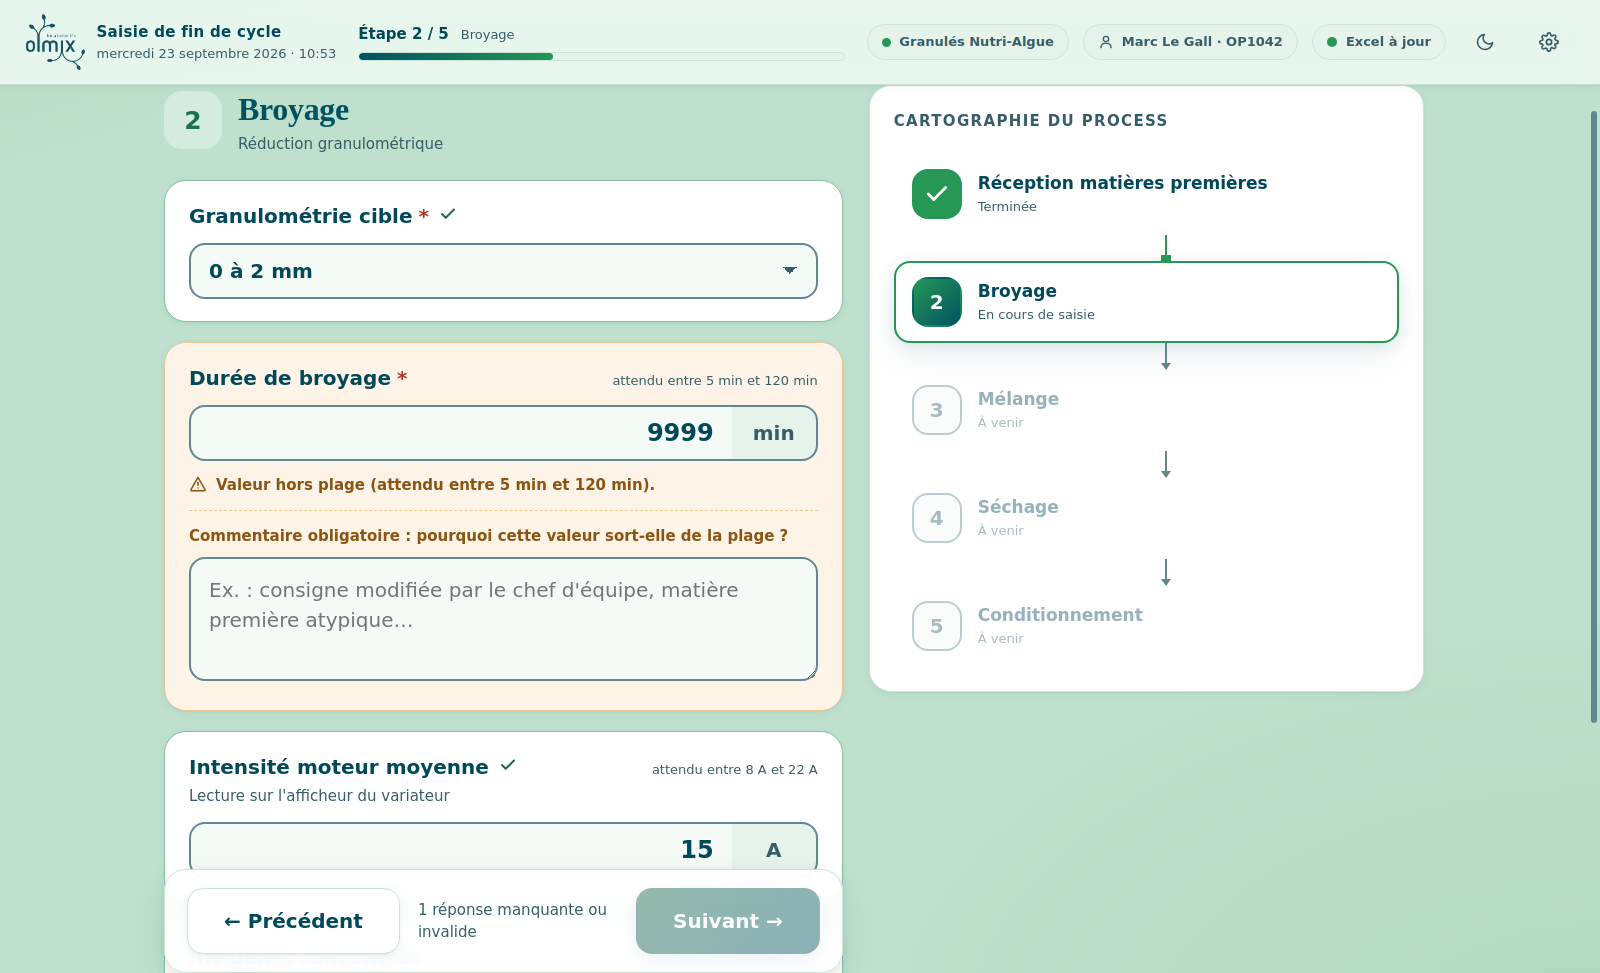
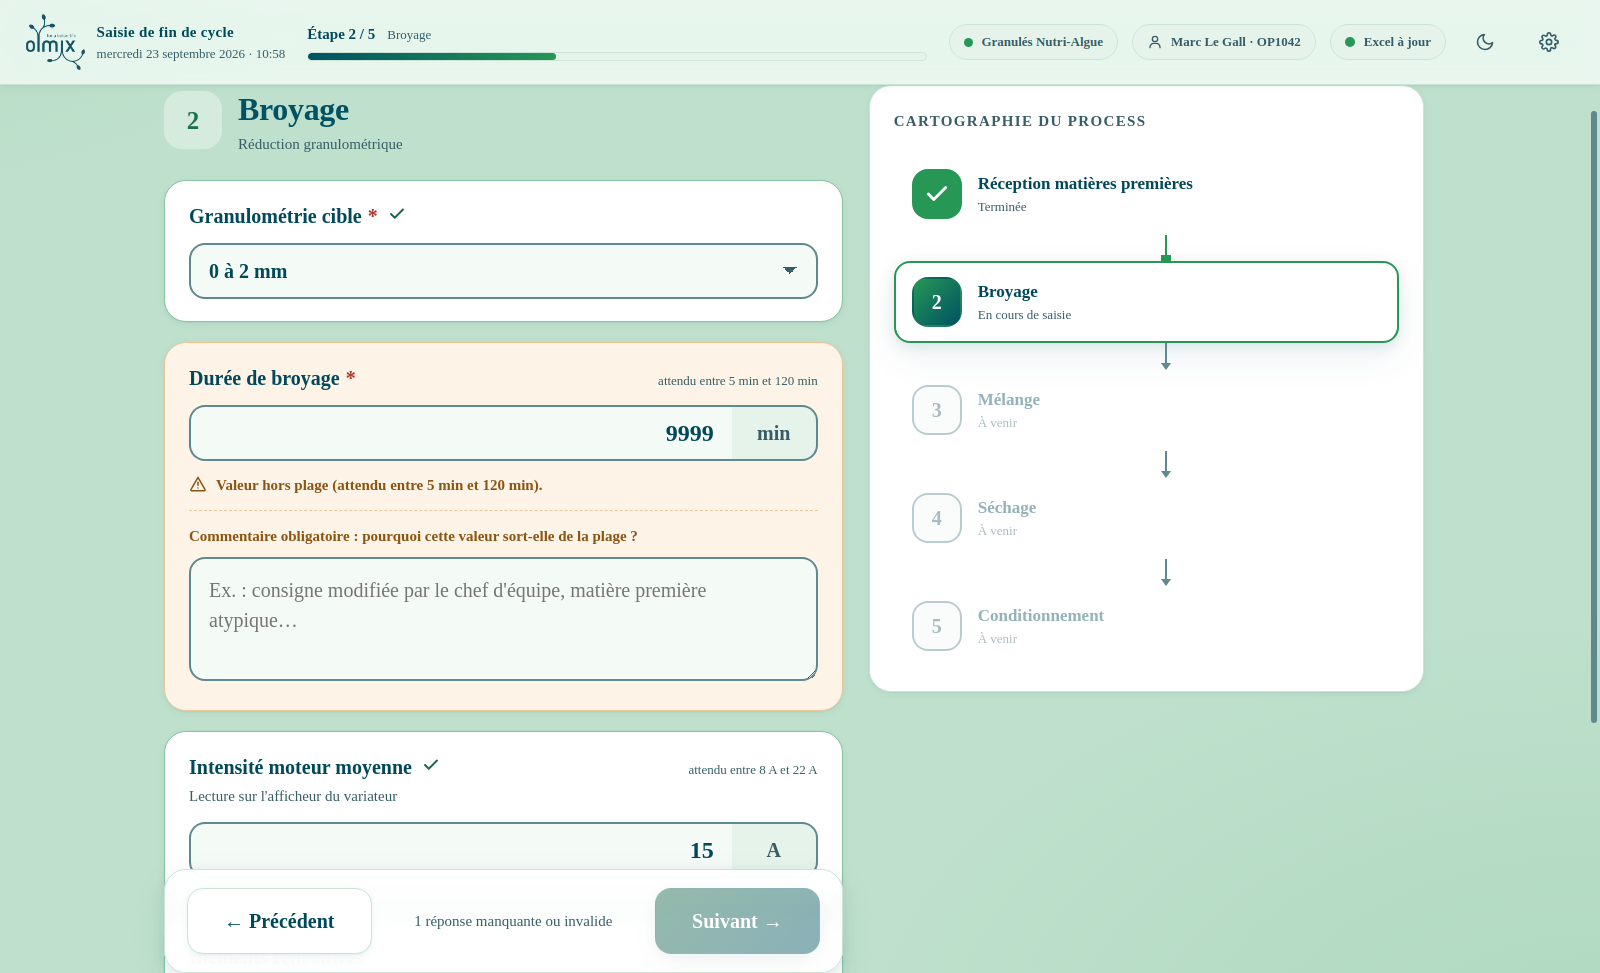
Une seule police pour toute l'interface, cartes produit sans initiales
Le serif des titres s'applique désormais au texte courant, aux libellés, aux
champs et aux boutons : `--police-titre` n'est plus qu'un alias de `--police`,
et reste défini séparément pour pouvoir redonner une police distincte aux
titres sans toucher au reste.

Cambria passe devant Georgia dans la pile. Georgia n'a que des chiffres
elzéviriens (3, 4, 7 et 9 descendent sous la ligne de base), ce qui gêne la
lecture d'un relevé numérique alors que c'est le cœur du métier ici. Cambria
est livrée avec Windows depuis Vista, dessinée pour l'écran, et a des chiffres
alignés — comme les captures validées jusqu'ici, qui rendaient une police de
repli aux chiffres alignés et non Georgia.

L'identifiant de cycle et les chemins de fichiers gardent la chasse fixe : on
les recopie caractère par caractère, et la distinction entre 0 et O y compte.

Les cartes produit ne portent plus d'initiales, seulement leur titre, agrandi.
La vignette ne réapparaît que si un symbole est explicitement défini en
configuration, pour ne pas rendre ce champ inopérant. Dans la liste
d'administration, les initiales laissent place à une simple pastille de
couleur. Le calcul des initiales, devenu sans usage, est supprimé.

Claude-Session: https://claude.ai/code/session_01Cncv6j2togXTPjYGL4z96A

diff --git a/src/styles/global.css b/src/styles/global.css
@@ -206,7 +206,7 @@ h1, h2, h3, p { margin: 0; }
 
 .produit {
   position: relative; display: flex; flex-direction: column; gap: 10px;
-  padding: 24px; text-align: left; min-height: 178px;
+  padding: 26px; text-align: left; min-height: 158px;
   border: 1px solid var(--bordure); border-radius: var(--r-l);
   background: var(--surface); box-shadow: var(--ombre-1); cursor: pointer;
   transition: transform var(--transition), box-shadow var(--transition), border-color var(--transition);
@@ -228,7 +228,7 @@ h1, h2, h3, p { margin: 0; }
   color: var(--accent-lisible, var(--accent, var(--vert-600)));
   background: color-mix(in srgb, var(--accent, var(--vert-600)) 14%, var(--surface-2));
 }
-.produit__nom { font-size: var(--t-xl); font-weight: 750; letter-spacing: -0.01em; }
+.produit__nom { font-size: var(--t-2xl); font-weight: 700; letter-spacing: -0.01em; line-height: 1.2; }
 .produit__desc { font-size: var(--t-s); color: var(--texte-doux); }
 .produit__pied { margin-top: auto; display: flex; gap: 8px; flex-wrap: wrap; }
 
@@ -453,7 +453,11 @@ select.saisie { cursor: pointer; appearance: none;
 }
 .admin__element:hover { background: var(--surface-3); }
 .admin__element--actif { background: var(--ecume); border-color: var(--vert-600); }
-.admin__initiales { font-weight: 800; color: var(--accent-lisible, var(--accent, var(--vert-600))); }
+/* Pastille de couleur : rappelle l'accent du produit sans recourir à un texte. */
+.admin__pastille {
+  width: 12px; height: 12px; border-radius: 50%; flex: none;
+  background: var(--accent, var(--vert-600));
+}
 .admin__panneau { padding: 26px; }
 .admin__section + .admin__section { margin-top: 30px; padding-top: 26px; border-top: 1px solid var(--bordure); }
 .admin__titre-section { font-size: var(--t-l); font-weight: 750; margin-bottom: 16px; }
@@ -485,13 +489,13 @@ textarea.saisie--compacte { padding: 11px 13px; min-height: 74px; }
 .produit__icone,
 .etape-entete,
 .etape-entete__icone,
-.admin__initiales {
+.admin__pastille {
   --accent-lisible: color-mix(in srgb, var(--accent, var(--vert-600)) 70%, #01203a);
 }
 [data-theme='sombre'] .produit,
 [data-theme='sombre'] .produit__icone,
 [data-theme='sombre'] .etape-entete,
 [data-theme='sombre'] .etape-entete__icone,
-[data-theme='sombre'] .admin__initiales {
+[data-theme='sombre'] .admin__pastille {
   --accent-lisible: color-mix(in srgb, var(--accent, var(--vert-600)) 42%, #ffffff);
 }

diff --git a/src/styles/tokens.css b/src/styles/tokens.css
@@ -82,12 +82,19 @@
   --anneau: 0 0 0 4px rgba(1, 73, 90, 0.34);
 
   /* Typographie.
-     Le site associe un serif éditorial aux grands titres et un sans-serif
-     géométrique au reste. Les polices d'Olmix étant sous licence, on s'appuie
+     Le serif éditorial de la charte est appliqué à toute l'interface, titres
+     comme texte courant. Les polices d'Olmix étant sous licence, on s'appuie
      sur des polices présentes sur tout poste Windows : l'application doit
-     fonctionner hors connexion, sans téléchargement de fonte. */
-  --police: 'Segoe UI', 'Inter', system-ui, -apple-system, 'Helvetica Neue', Arial, sans-serif;
-  --police-titre: Georgia, 'Cambria', 'Times New Roman', serif;
+     fonctionner hors connexion, sans téléchargement de fonte.
+     Cambria passe devant Georgia : Georgia n'a que des chiffres elzéviriens
+     (le 3, le 4, le 7 et le 9 descendent sous la ligne de base), ce qui gêne
+     la lecture d'un relevé numérique — or c'est le cœur du métier ici.
+     Cambria, livrée avec Windows depuis Vista et dessinée pour l'écran, a des
+     chiffres alignés.
+     `--police-titre` reste défini séparément pour pouvoir redonner une police
+     distincte aux titres sans toucher au reste. */
+  --police: Cambria, Georgia, 'Times New Roman', serif;
+  --police-titre: var(--police);
 
   --t-xs: 0.8125rem;
   --t-s: 0.9375rem;

diff --git a/src/screens/EcranAccueil.tsx b/src/screens/EcranAccueil.tsx
@@ -7,7 +7,7 @@ import { useMemo, useState } from 'react';
 import { motion } from 'framer-motion';
 import type { Brouillon, Produit } from '@shared/types';
 import Bandeau from '../components/Bandeau';
-import Icone, { initiales } from '../components/Icone';
+import Icone from '../components/Icone';
 import { dateHeure } from '../lib/format';
 
 interface Proprietes {
@@ -201,9 +201,13 @@ export default function EcranAccueil({
                 transition={{ delay: Math.min(index * 0.05, 0.3), duration: 0.3 }}
                 whileTap={{ scale: 0.98 }}
               >
-                <div className="produit__icone" aria-hidden>
-                  {produit.icone ?? initiales(produit.nom)}
-                </div>
+                {/* Vignette affichée uniquement si un symbole est défini en
+                    configuration ; sinon la carte s'en tient à son titre. */}
+                {produit.icone && (
+                  <div className="produit__icone" aria-hidden>
+                    {produit.icone}
+                  </div>
+                )}
                 <div className="produit__nom">{produit.nom}</div>
                 {produit.description && <div className="produit__desc">{produit.description}</div>}
                 <div className="produit__pied">

diff --git a/src/screens/admin/EditeurProduits.tsx b/src/screens/admin/EditeurProduits.tsx
@@ -9,7 +9,7 @@
 import { useState } from 'react';
 import { suggererColonne } from '@shared/schema';
 import { normaliserEntete } from '@shared/columns';
-import Icone, { initiales } from '../../components/Icone';
+import Icone from '../../components/Icone';
 import type {
   ConfigurationProduits,
   EtapeProcessus,
@@ -147,11 +147,9 @@ export default function EditeurProduits({ configuration, onChangement }: Proprie
           >
             <span
               aria-hidden
-              className="admin__initiales"
+              className="admin__pastille"
               style={{ ['--accent' as string]: p.couleur ?? 'var(--vert-600)' }}
-            >
-              {p.icone ?? initiales(p.nom)}
-            </span>
+            />
             <span style={{ flex: 1, minWidth: 0, overflow: 'hidden', textOverflow: 'ellipsis' }}>{p.nom}</span>
             {p.actif === false && <span className="mini-puce">inactif</span>}
           </button>

diff --git a/src/components/Icone.tsx b/src/components/Icone.tsx
@@ -143,15 +143,3 @@ export default function Icone({
     </svg>
   );
 }
-
-/** Initiales d'un nom de produit, pour la vignette qui remplace l'émoji. */
-export function initiales(nom: string): string {
-  const mots = nom
-    .normalize('NFD')
-    .replace(/[̀-ͯ]/g, '')
-    .split(/[^A-Za-z0-9]+/)
-    .filter(Boolean);
-  if (!mots.length) return '?';
-  if (mots.length === 1) return mots[0]!.slice(0, 2).toUpperCase();
-  return `${mots[0]![0]}${mots[1]![0]}`.toUpperCase();
-}

diff --git a/README.md b/README.md
@@ -553,12 +553,23 @@ du teal profond, et non d'un gris neutre.
 
 ### Typographie
 
-Le site associe un serif éditorial aux grands titres et un sans-serif géométrique au
-reste. Les polices d'Olmix étant sous licence, l'application s'appuie sur des polices
-présentes sur tout poste Windows (Georgia pour les titres, Segoe UI pour le reste) :
-elle doit fonctionner hors connexion, sans téléchargement de fonte. Pour utiliser les
-vraies polices, déposer les fichiers dans `src/assets/` et ajuster `--police` et
-`--police-titre`.
+Le serif éditorial de la charte est appliqué à **toute** l'interface, titres comme
+texte courant. Les polices d'Olmix étant sous licence, l'application s'appuie sur des
+polices présentes sur tout poste Windows : elle doit fonctionner hors connexion, sans
+téléchargement de fonte.
+
+La pile est `Cambria, Georgia, 'Times New Roman', serif`. **Cambria passe devant
+Georgia volontairement** : Georgia n'a que des chiffres elzéviriens — le 3, le 4, le 7
+et le 9 descendent sous la ligne de base — ce qui gêne la lecture d'un relevé
+numérique, or c'est précisément ce que saisissent les opérateurs. Cambria, livrée avec
+Windows depuis Vista et dessinée pour l'écran, a des chiffres alignés.
+
+Seuls l'identifiant de cycle et les chemins de fichiers restent en police à chasse
+fixe : on les recopie ou on les compare caractère par caractère, et la distinction
+entre `0` et `O` y est essentielle.
+
+Pour utiliser les vraies polices d'Olmix, déposer les fichiers dans `src/assets/` et
+ajuster `--police` (et `--police-titre` si les titres doivent différer).
 
 ### Logo
 
